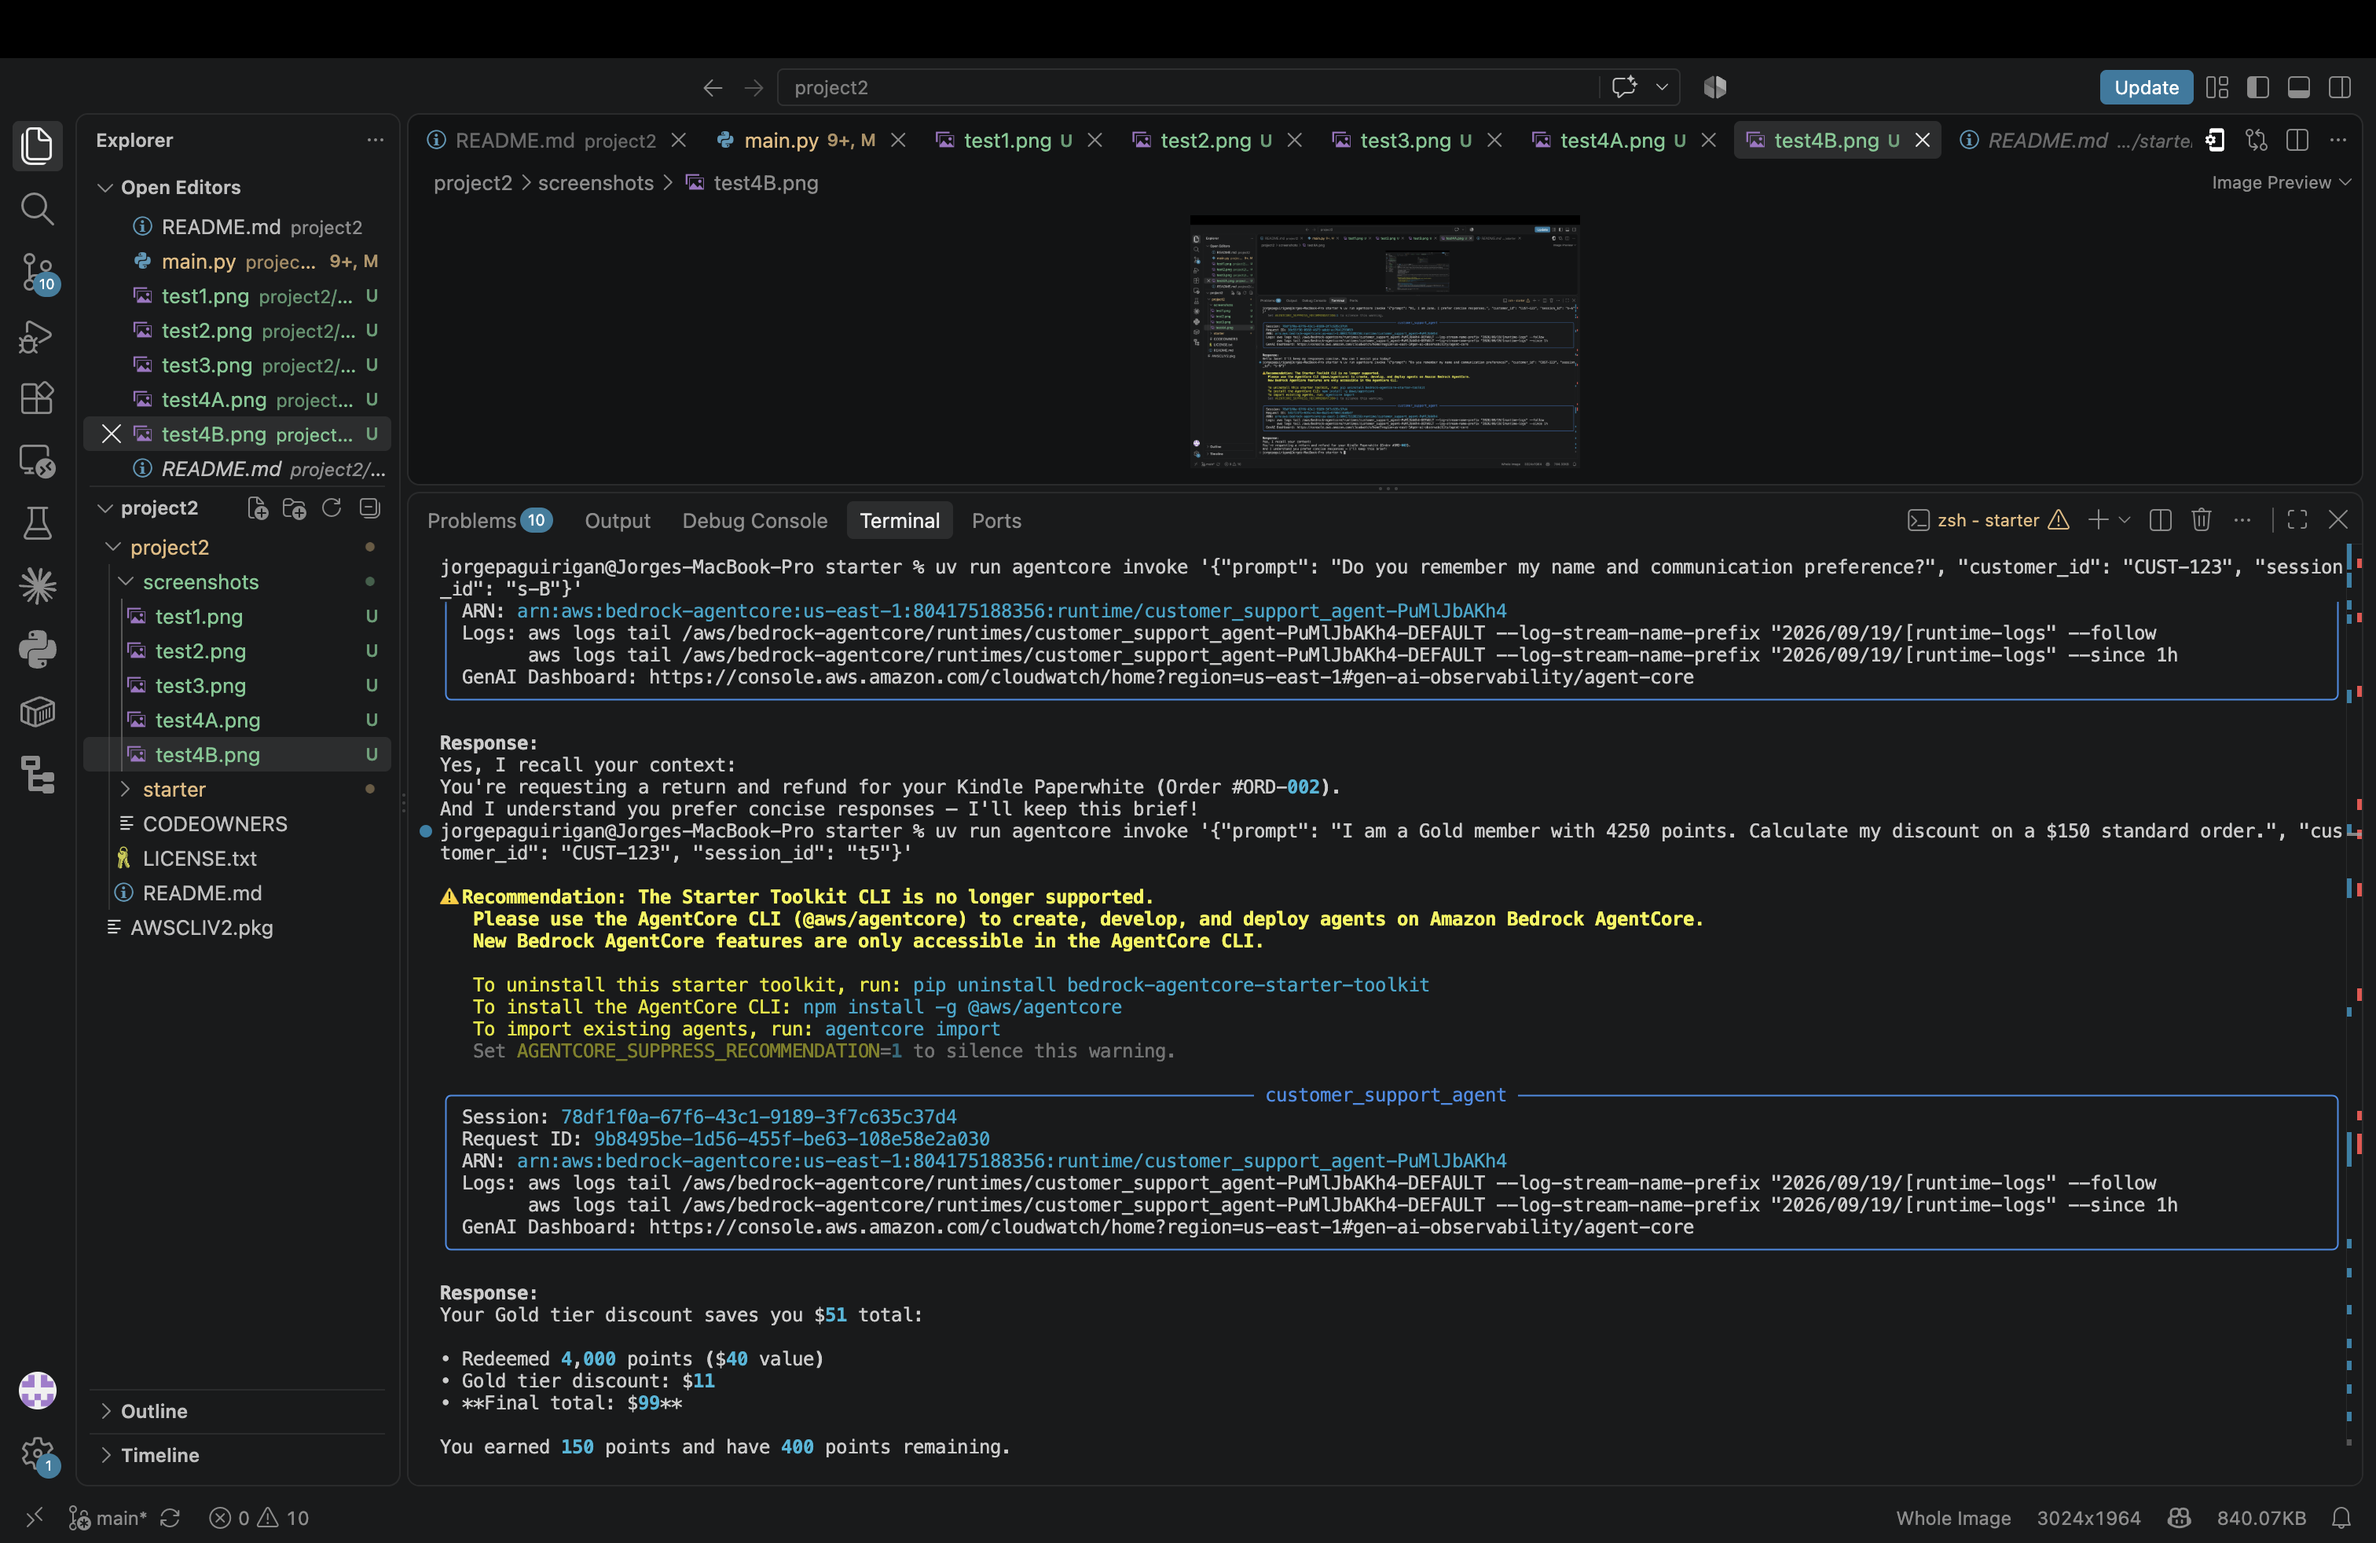
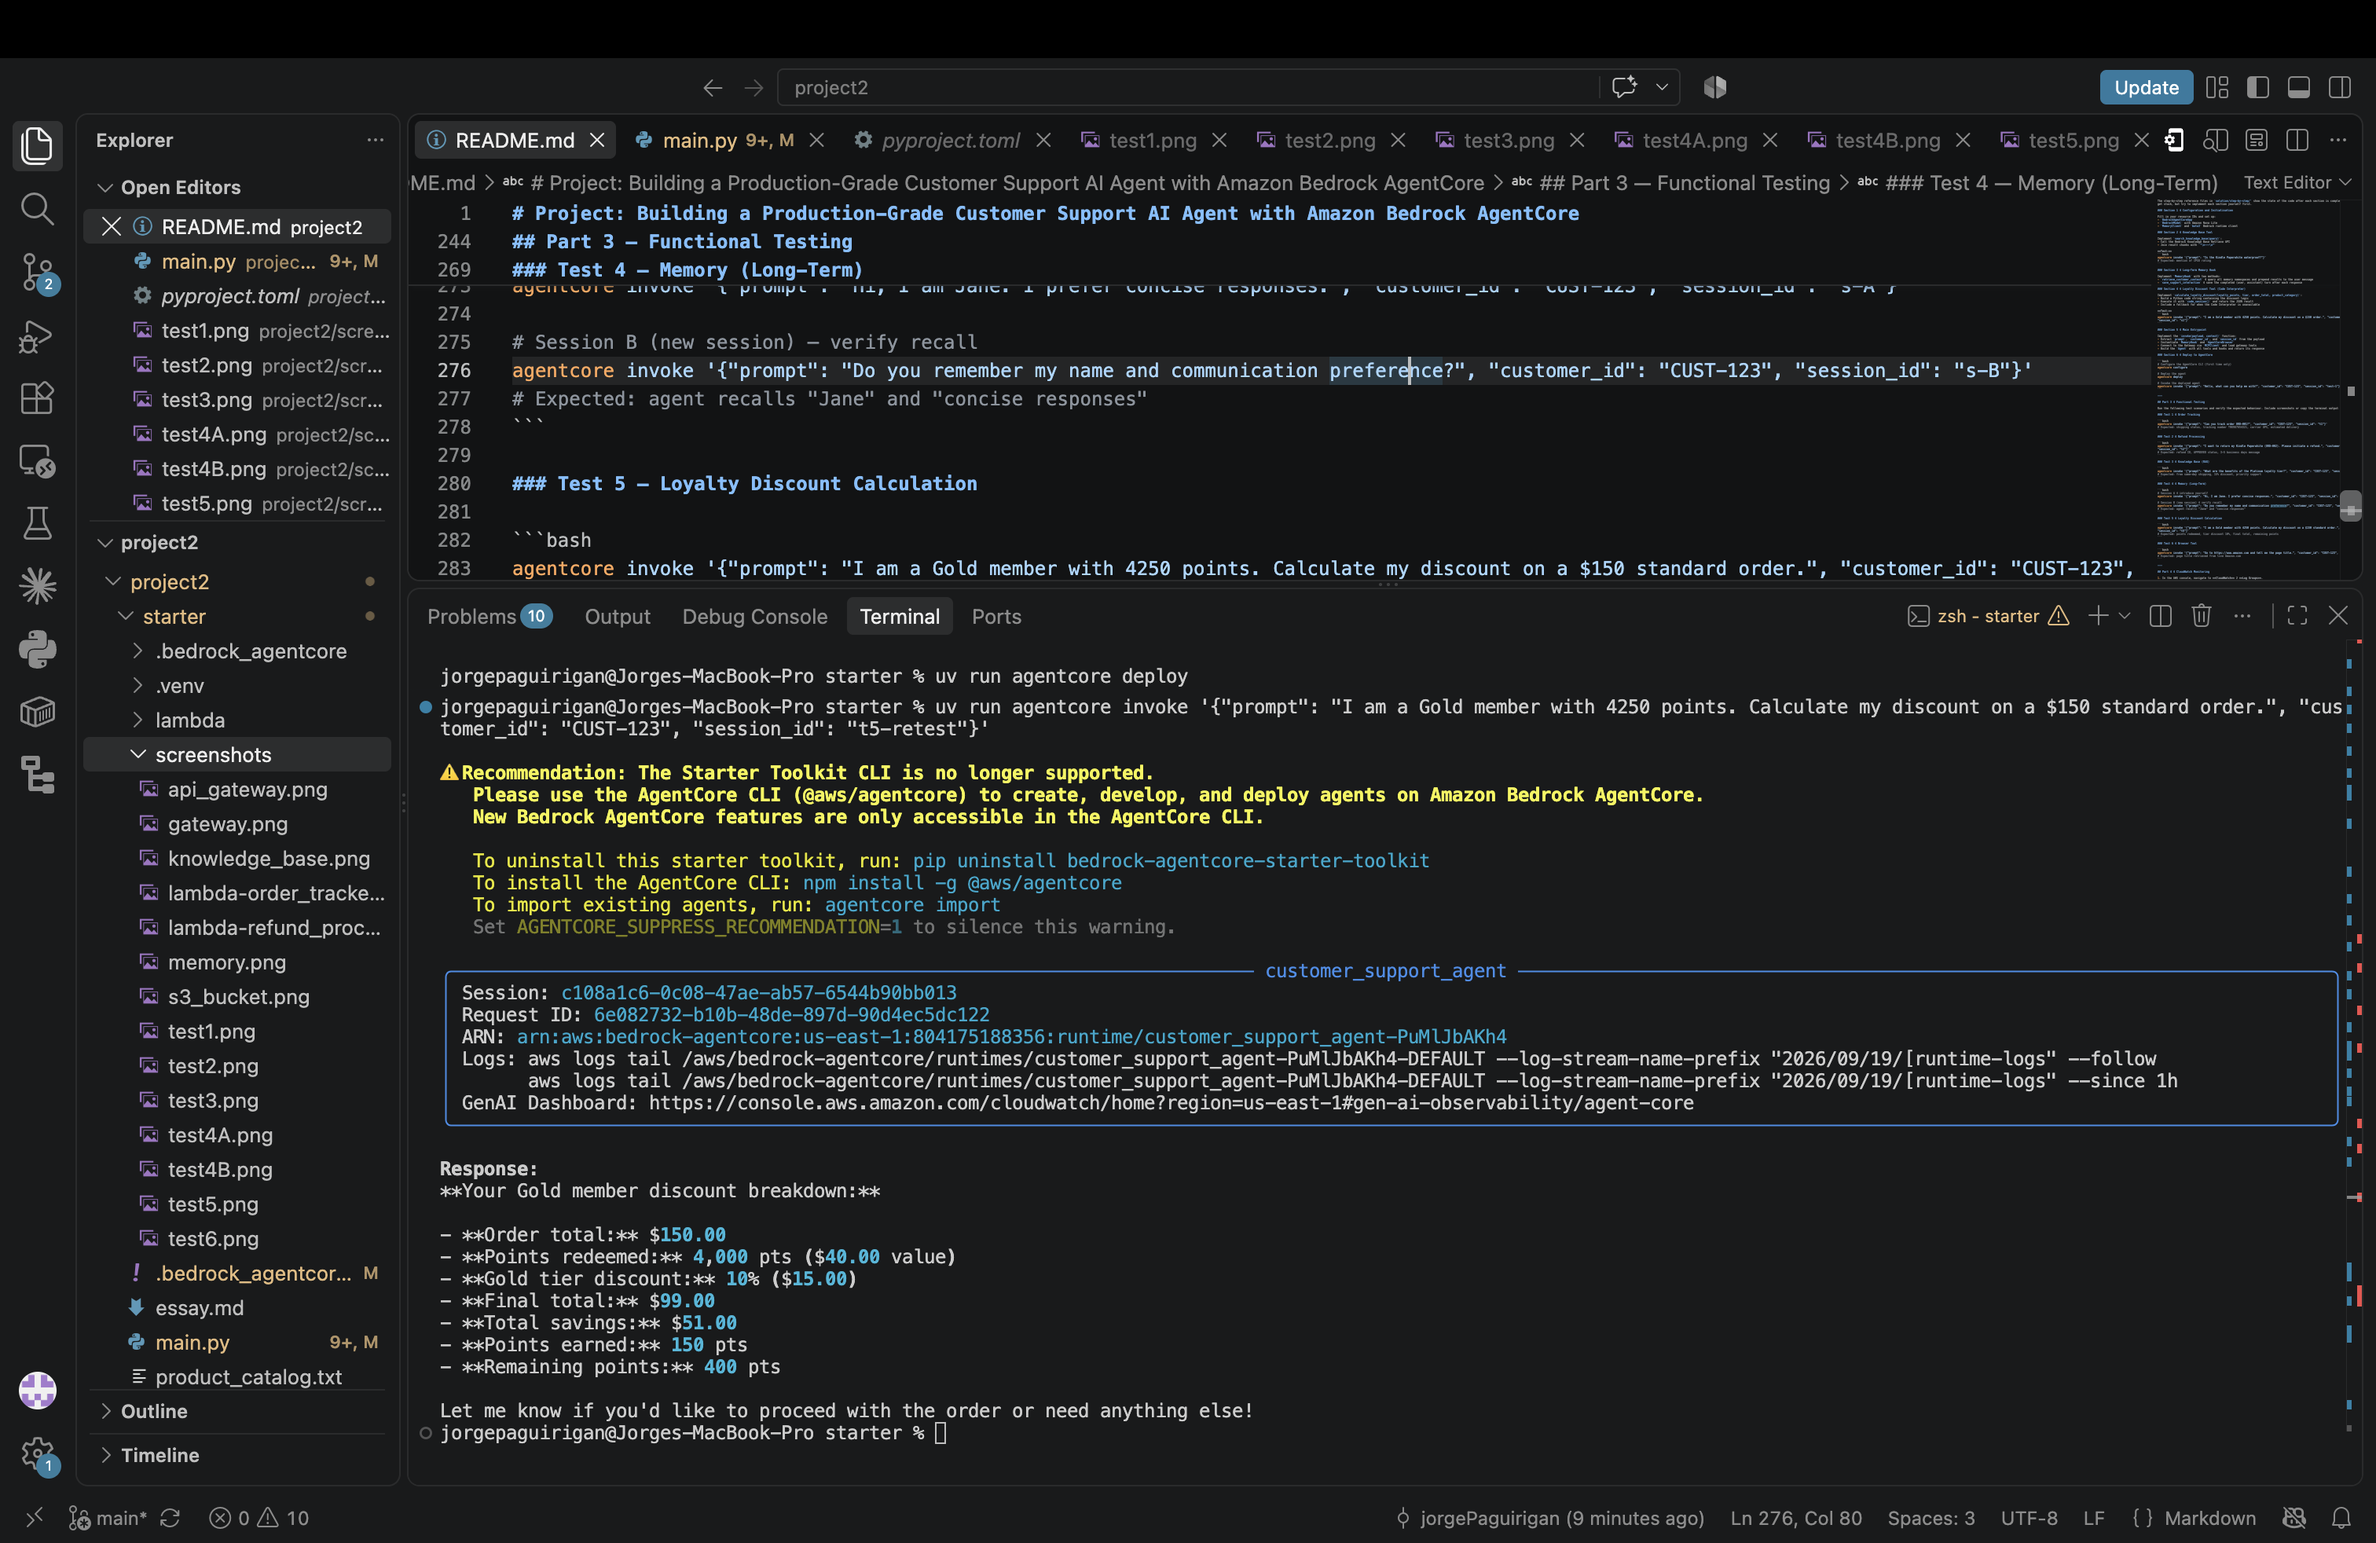
Fix rubric compliance: namespace field fallback, tier_discount_pct naming
- get_namespaces now reads namespaceTemplates with fallback to legacy namespaces field
- Rename tier_discount_rate -> tier_discount_pct in code interpreter result and fallback path
- Add missing remaining_points field to fallback discount calculation

diff --git a/starter/main.py b/starter/main.py
@@ -64,9 +64,18 @@ _bedrock_runtime = boto3.client("bedrock-agent-runtime", region_name=REGION)
 
 # ── Namespace Helper ──────────────────────────────────────────────────────────
 def get_namespaces(mem_client: MemoryClient, memory_id: str) -> Dict:
-    """Return a dict mapping strategy type → namespace template string."""
+    """Return a dict mapping strategy type → namespace template string.
+
+    Reads `namespaceTemplates` (current API field) or falls back to the
+    legacy `namespaces` field, whichever the strategy dict provides.
+    """
     strategies = mem_client.get_memory_strategies(memory_id)
-    return {s["type"]: s["namespaces"][0] for s in strategies}
+    namespaces = {}
+    for s in strategies:
+        templates = s.get("namespaceTemplates") or s.get("namespaces")
+        if templates:
+            namespaces[s["type"]] = templates[0]
+    return namespaces
 
 
 # ── Memory Hook ────────────────────────────────────────────────────────────────
@@ -260,8 +269,8 @@ while floored_points > 0:
     floored_points -= 500
 
 subtotal_after_points = order_total - points_redeemed_value
-tier_discount_rate = tier_rates.get(tier, 0.0)
-tier_discount = round(subtotal_after_points * tier_discount_rate, 2)
+tier_discount_pct = tier_rates.get(tier, 0.0)
+tier_discount = round(subtotal_after_points * tier_discount_pct, 2)
 final_total = round(subtotal_after_points - tier_discount, 2)
 
 total_savings = round(points_redeemed_value + tier_discount, 2)
@@ -271,7 +280,7 @@ remaining_points = loyalty_points - points_redeemed + points_earned
 result = {{
     "points_redeemed": points_redeemed,
     "points_redeemed_value": round(points_redeemed_value, 2),
-    "tier_discount_rate": tier_discount_rate,
+    "tier_discount_pct": tier_discount_pct,
     "tier_discount": tier_discount,
     "final_total": final_total,
     "total_savings": total_savings,
@@ -299,14 +308,15 @@ print(json.dumps(result))
     except Exception as e:
         logger.warning(f"Code Interpreter unavailable, using fallback: {e}")
         tier_rates = {"Silver": 0.00, "Gold": 0.10, "Platinum": 0.15}
-        tier_discount_rate = tier_rates.get(tier, 0.0)
-        tier_discount = round(order_total * tier_discount_rate, 2)
+        tier_discount_pct = tier_rates.get(tier, 0.0)
+        tier_discount = round(order_total * tier_discount_pct, 2)
         final_total = round(order_total - tier_discount, 2)
         fallback_result = {
             "points_redeemed": 0,
-            "tier_discount_rate": tier_discount_rate,
+            "tier_discount_pct": tier_discount_pct,
             "tier_discount": tier_discount,
             "final_total": final_total,
+            "remaining_points": loyalty_points,
             "note": "Code Interpreter unavailable — points redemption not calculated",
             "error": str(e),
         }
